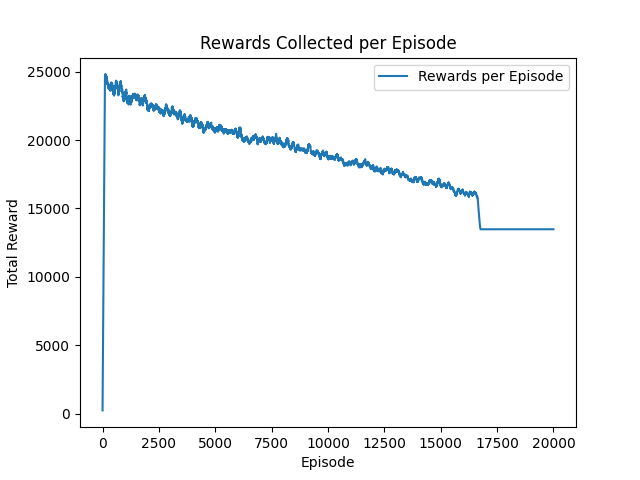
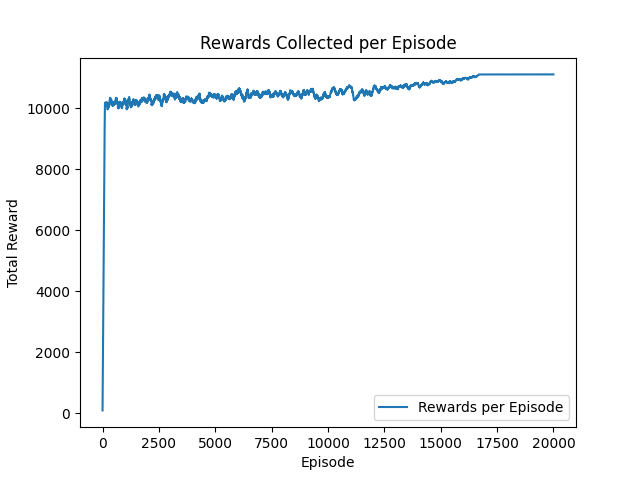
fix: priority

diff --git a/nw_environment.py b/nw_environment.py
@@ -27,6 +27,8 @@ class Packet:
         self.size = packet_size
         self.priority = priority
         self.timestamp = timestamp
+    def __lt__(self, other):
+        return self.timestamp < other.timestamp
 
 
 class NetworkEnvironment:
@@ -37,8 +39,8 @@ class NetworkEnvironment:
         self.es1 = simpy.Store(self.env, capacity=self.max_capacity)
         self.es2 = simpy.Store(self.env, capacity=self.max_capacity)
         self.es3 = simpy.Store(self.env, capacity=1000000)
-        self.sw1 = simpy.Store(self.env, capacity=self.max_capacity)
-        self.sw2 = simpy.Store(self.env, capacity=self.max_capacity)
+        self.sw1 = simpy.PriorityStore(self.env, capacity=self.max_capacity)
+        self.sw2 = simpy.PriorityStore(self.env, capacity=self.max_capacity)
 
         self.sw1_es3_resource = simpy.Resource(env, capacity=1)
         self.sw1_sw2_resource = simpy.Resource(env, capacity=1)
@@ -52,6 +54,12 @@ class NetworkEnvironment:
         self.actions_step = {0: "sw1_to_sw2", 1: "sw2_to_sw1", 2: "sw1_to_dest", 3: "sw2_to_dest"}
         self.link_speeds = link_speeds
 
+    def reset_resource(self):
+        self.sw1_es3_resource.queue.clear()
+        self.sw1_sw2_resource.queue.clear()
+        self.sw2_es3_resource.queue.clear()
+
+
     def switch(self, es, sw, speed):
         """
         Simulates packet switching behavior.
@@ -59,11 +67,11 @@ class NetworkEnvironment:
         while True:
             packet = yield es.get()
             transmission_delay = packet.size / speed
-            logs_list.append([packet.id, packet.src + " to " + packet.dst, transmission_delay, self.env.now - packet.timestamp,
-                              self.env.now, len(self.sw1.items), len(self.sw2.items)])
-            packet.src = packet.dst
             yield self.env.timeout(transmission_delay)
             yield sw.put(packet)
+            logs_list.append([packet.id, packet.src + " to " + packet.dst, transmission_delay, self.env.now - packet.timestamp,
+                              self.env.now, len(self.sw1.items)+ len(self.sw1_es3_resource.queue), len(self.sw2.items)+ len(self.sw2_es3_resource.queue)])
+            packet.src = packet.dst
 
     def packet_generator(self, src, dst, host,packet_size,priority,packet_number=10):
         while packet_number > 0:
@@ -89,7 +97,7 @@ def CalculateTransmissionDelay(nw=None, packet =  None,action=-1):
 
 
 def rewardCal(now, timestamp, action, nw, env,priority):
-    overtime_threshold = 92
+    overtime_threshold = 114
     # queue_length_reward = 0.5
     # balance_reward = 2
     delay_penalty = 0.1
@@ -102,11 +110,11 @@ def rewardCal(now, timestamp, action, nw, env,priority):
     sw2_es3 = len(nw.sw2_es3_resource.queue)
 
     if action == 0 or action == 1:
-        expected_time = nw.sw1_sw2_expected_time - now
+        expected_time = max((nw.sw1_sw2_expected_time - now),0)
     elif action == 2:
-        expected_time = nw.sw1_es3_expected_time - now
+        expected_time = max((nw.sw1_es3_expected_time - now),0)
     elif action == 3:
-        expected_time = nw.sw2_es3_expected_time - now
+        expected_time = max((nw.sw2_es3_expected_time - now),0)
     else:
         expected_time = 0
 
@@ -114,26 +122,24 @@ def rewardCal(now, timestamp, action, nw, env,priority):
 
     if priority == 1:
         reward += 3
-    elif priority == 2:
-        reward += 1
     # Reward/Penalty for timely delivery
     if action == 2 or action == 3:
         if overtime_threshold + timestamp > expected_time + now:
-            print(f"packet_id:{timestamp} priority:{priority} action:{action} expected_time:{expected_time} now:{now} timestamp:{timestamp} overtime_threshold:{overtime_threshold} reward:{reward}")
+            # print(f"packet_id:{timestamp} priority:{priority} action:{action} expected_time:{expected_time} now:{now} timestamp:{timestamp} overtime_threshold:{overtime_threshold} reward:{reward}")
             reward += 6
         else:
             reward -= delay_penalty * (now + expected_time - (timestamp + overtime_threshold))
 
     # Reward for balanced load
-    if timestamp + overtime_threshold > expected_time + now:
-        if action == 0:
-            reward += speed_reward * nw.link_speeds["sw1"]["sw2"]
-        elif action == 1:
-            reward += speed_reward * nw.link_speeds["sw2"]["sw1"]
-        elif action == 2:
-            reward += speed_reward * nw.link_speeds["sw1"]["es3"]
-        elif action == 3:
-            reward += speed_reward * nw.link_speeds["sw2"]["es3"]
+    # if timestamp + overtime_threshold > expected_time + now:
+    #     if action == 0:
+    #         reward += speed_reward * nw.link_speeds["sw1"]["sw2"]
+    #     elif action == 1:
+    #         reward += speed_reward * nw.link_speeds["sw2"]["sw1"]
+    #     elif action == 2:
+    #         reward += speed_reward * nw.link_speeds["sw1"]["es3"]
+    #     elif action == 3:
+    #         reward += speed_reward * nw.link_speeds["sw2"]["es3"]
 
         # queue_length_diff = abs(len(nw.sw1.items) - len(nw.sw2.items))
         # reward -= balance_reward * queue_length_diff
@@ -163,54 +169,49 @@ def resource_handler(nw, action, packet, env, TransmissionDelay, state):
     sw1_sw2 = len(nw.sw1_sw2_resource.queue)
     sw1_es3 = len(nw.sw1_es3_resource.queue)
     sw2_es3 = len(nw.sw2_es3_resource.queue)
+    # logs_list.append([f"{packet.id} priority:{packet.priority}", nw.actions_step[action], f"{TransmissionDelay} (Agent)", env.now - packet.timestamp, env.now, state[0] + sw1_es3, state[1] + sw2_es3])
+
     if action == 0:
-        # print(f"sw2 to sw1 {env.now} packet_id:{packet.id}")
         transfer = "sw1 to sw2"
         nw.sw1_sw2_expected_time = env.now + TransmissionDelay
         with nw.sw1_sw2_resource.request() as request:
             yield request
             yield env.timeout(TransmissionDelay)
             yield nw.sw2.put(packet)
-        # print(f"packet_size:{packet.size} packet_id:{packet.id} env:{env.now}")
+            logs_list.append([f"{packet.id} priority:{packet.priority}", transfer, f"{TransmissionDelay} (Agent)", env.now - packet.timestamp, env.now, len(nw.sw1.items) + len(nw.sw1_es3_resource.queue), len(nw.sw1.items) + len(nw.sw2_es3_resource.queue)])
 
 
 
     elif action == 1:
-        # print(f"sw2 to sw1 {env.now} packet_id:{packet.id}")
         transfer = "sw2 to sw1"
         nw.sw1_sw2_expected_time = env.now + TransmissionDelay
         with nw.sw1_sw2_resource.request() as request:
             yield request
             yield env.timeout(TransmissionDelay)
             yield nw.sw1.put(packet)
-        # print(f"packet_size:{packet.size} packet_id:{packet.id} env:{env.now}")
+            logs_list.append([f"{packet.id} priority:{packet.priority}", transfer, f"{TransmissionDelay} (Agent)", env.now - packet.timestamp, env.now, len(nw.sw1.items) + len(nw.sw1_es3_resource.queue), len(nw.sw1.items) + len(nw.sw2_es3_resource.queue)])
+
+
 
     elif action == 2:
-        # print(f"sw1 to es3 {env.now} packet_id:{packet.id}")
         transfer = "sw1 to es3"
         nw.sw1_es3_expected_time = env.now + TransmissionDelay
         with nw.sw1_es3_resource.request() as request:
             yield request
             yield env.timeout(TransmissionDelay)
             yield nw.es3.put(packet)
-        # print(f"packet_size:{packet.size} packet_id:{packet.id} env:{env.now}")
+            logs_list.append([f"{packet.id} priority:{packet.priority}", transfer, f"{TransmissionDelay} (Agent)", env.now - packet.timestamp, env.now, len(nw.sw1.items) + len(nw.sw1_es3_resource.queue), len(nw.sw1.items) + len(nw.sw2_es3_resource.queue)])
+
 
     elif action == 3:
-        # print(f"sw2 to es3 {env.now} packet_id:{packet.id}")
         transfer = "sw2 to es3"
-        nw.sw2_es3_expected_time = env.now + TransmissionDelay 
+        nw.sw2_es3_expected_time = env.now + TransmissionDelay
         with nw.sw2_es3_resource.request() as request:
             yield request
             yield env.timeout(TransmissionDelay)
             yield nw.es3.put(packet)
-        # print(f"packet_size:{packet.size} packet_id:{packet.id} env:{env.now}")
+            logs_list.append([f"{packet.id} priority:{packet.priority}", transfer, f"{TransmissionDelay} (Agent)", env.now - packet.timestamp, env.now, len(nw.sw1.items) + len(nw.sw1_es3_resource.queue), len(nw.sw1.items) + len(nw.sw2_es3_resource.queue)])
 
-    logs_list.append([f"{packet.id} priority:{packet.priority}", transfer, f"{TransmissionDelay} (Agent)", env.now - packet.timestamp, env.now, state[0] + sw1_es3, state[1] + sw2_es3])
-
-def reset_resource(nw):
-    nw.sw1_es3_resource.queue.clear()
-    nw.sw1_sw2_resource.queue.clear()
-    nw.sw2_es3_resource.queue.clear()
     
 def model(env):
     learning_rate_a = 0.9
@@ -224,7 +225,7 @@ def model(env):
         # Starting network switches and packet generator
         logs_list.append([f"episode = {i} ", "", "", "", "", "", ""])
         nw = NetworkEnvironment(env)
-        host_process1 = env.process(nw.packet_generator("es1", "switch1", nw.es1,packet_size=700,priority=2))
+        host_process1 = env.process(nw.packet_generator("es1", "switch1", nw.es1,packet_size=1000,priority=2))
         host_process2 = env.process(nw.packet_generator("es2", "switch2", nw.es2,packet_size=1000,priority=1))
         switch_process1 = env.process(nw.switch(nw.es1, nw.sw1, nw.link_speeds["sw1"]["es1"]))
         switch_process2 = env.process(nw.switch(nw.es2, nw.sw2, nw.link_speeds["sw2"]["es2"]))
@@ -233,6 +234,7 @@ def model(env):
         yield env.timeout(2)
         state = [len(nw.sw1.items), len(nw.sw2.items)]
         while env.now < start:
+            # print(f"env:{env.now} start:{start} {len(nw.sw1_es3_resource.queue)} {len(nw.sw1_sw2_resource.queue)} {len(nw.sw2_es3_resource.queue)})")
             yield env.timeout(0.1)
             if rng.random() < epsilon and is_training:
                 action = random.randint(0, len(list(nw.actions_step.keys())) - 1)
@@ -265,7 +267,7 @@ def model(env):
                 q[state[0], state[1], action] = q[state[0], state[1], action] + learning_rate_a * (
                         reward + discount_factor_g * np.max(q[new_state[0], state[1], :]) - q[state[0], state[1], action])
             state = new_state
-        reset_resource(nw)
+        # nw.reset_resource()
         epsilon = max(epsilon - epsilon_decay_rate, 0)
         rewards_per_episode[i] = episode_reward
         if epsilon == 0:
@@ -276,7 +278,7 @@ env = simpy.Environment()
 
 model_process = env.process(model(env))
 env.run(until=20010000)
-# display()
+display()
 
 sum_rewards = np.zeros(episodes)
 for t in range(episodes):
@@ -287,7 +289,7 @@ plt.xlabel("Episode")
 plt.ylabel("Total Reward")
 plt.title("Rewards Collected per Episode")
 plt.legend()
-plt.savefig('model5002.png')
+plt.savefig('model5001.png')
 
 with open("nw.pkl", "wb") as f:
     pickle.dump(q, f)

diff --git a/sim.py b/sim.py
@@ -70,7 +70,7 @@ class NetworkEnvironment:
         
 env =  simpy.Environment()
 nw = NetworkEnvironment(env)
-host_process1 = env.process(nw.packet_generator( "es1", "switch1", nw.es1,packet_size=700))
+host_process1 = env.process(nw.packet_generator( "es1", "switch1", nw.es1,packet_size=1000))
 host_process2 = env.process(nw.packet_generator( "es2", "switch2", nw.es2,packet_size=1000))
 switch_process1 = env.process(nw.switch( nw.es1, nw.sw1,nw.link_speeds["sw1"]["es1"]))
 env.process(nw.send_packet_to_es3(env, nw.es3,nw.sw1,nw.link_speeds["sw1"]["dest"]))
